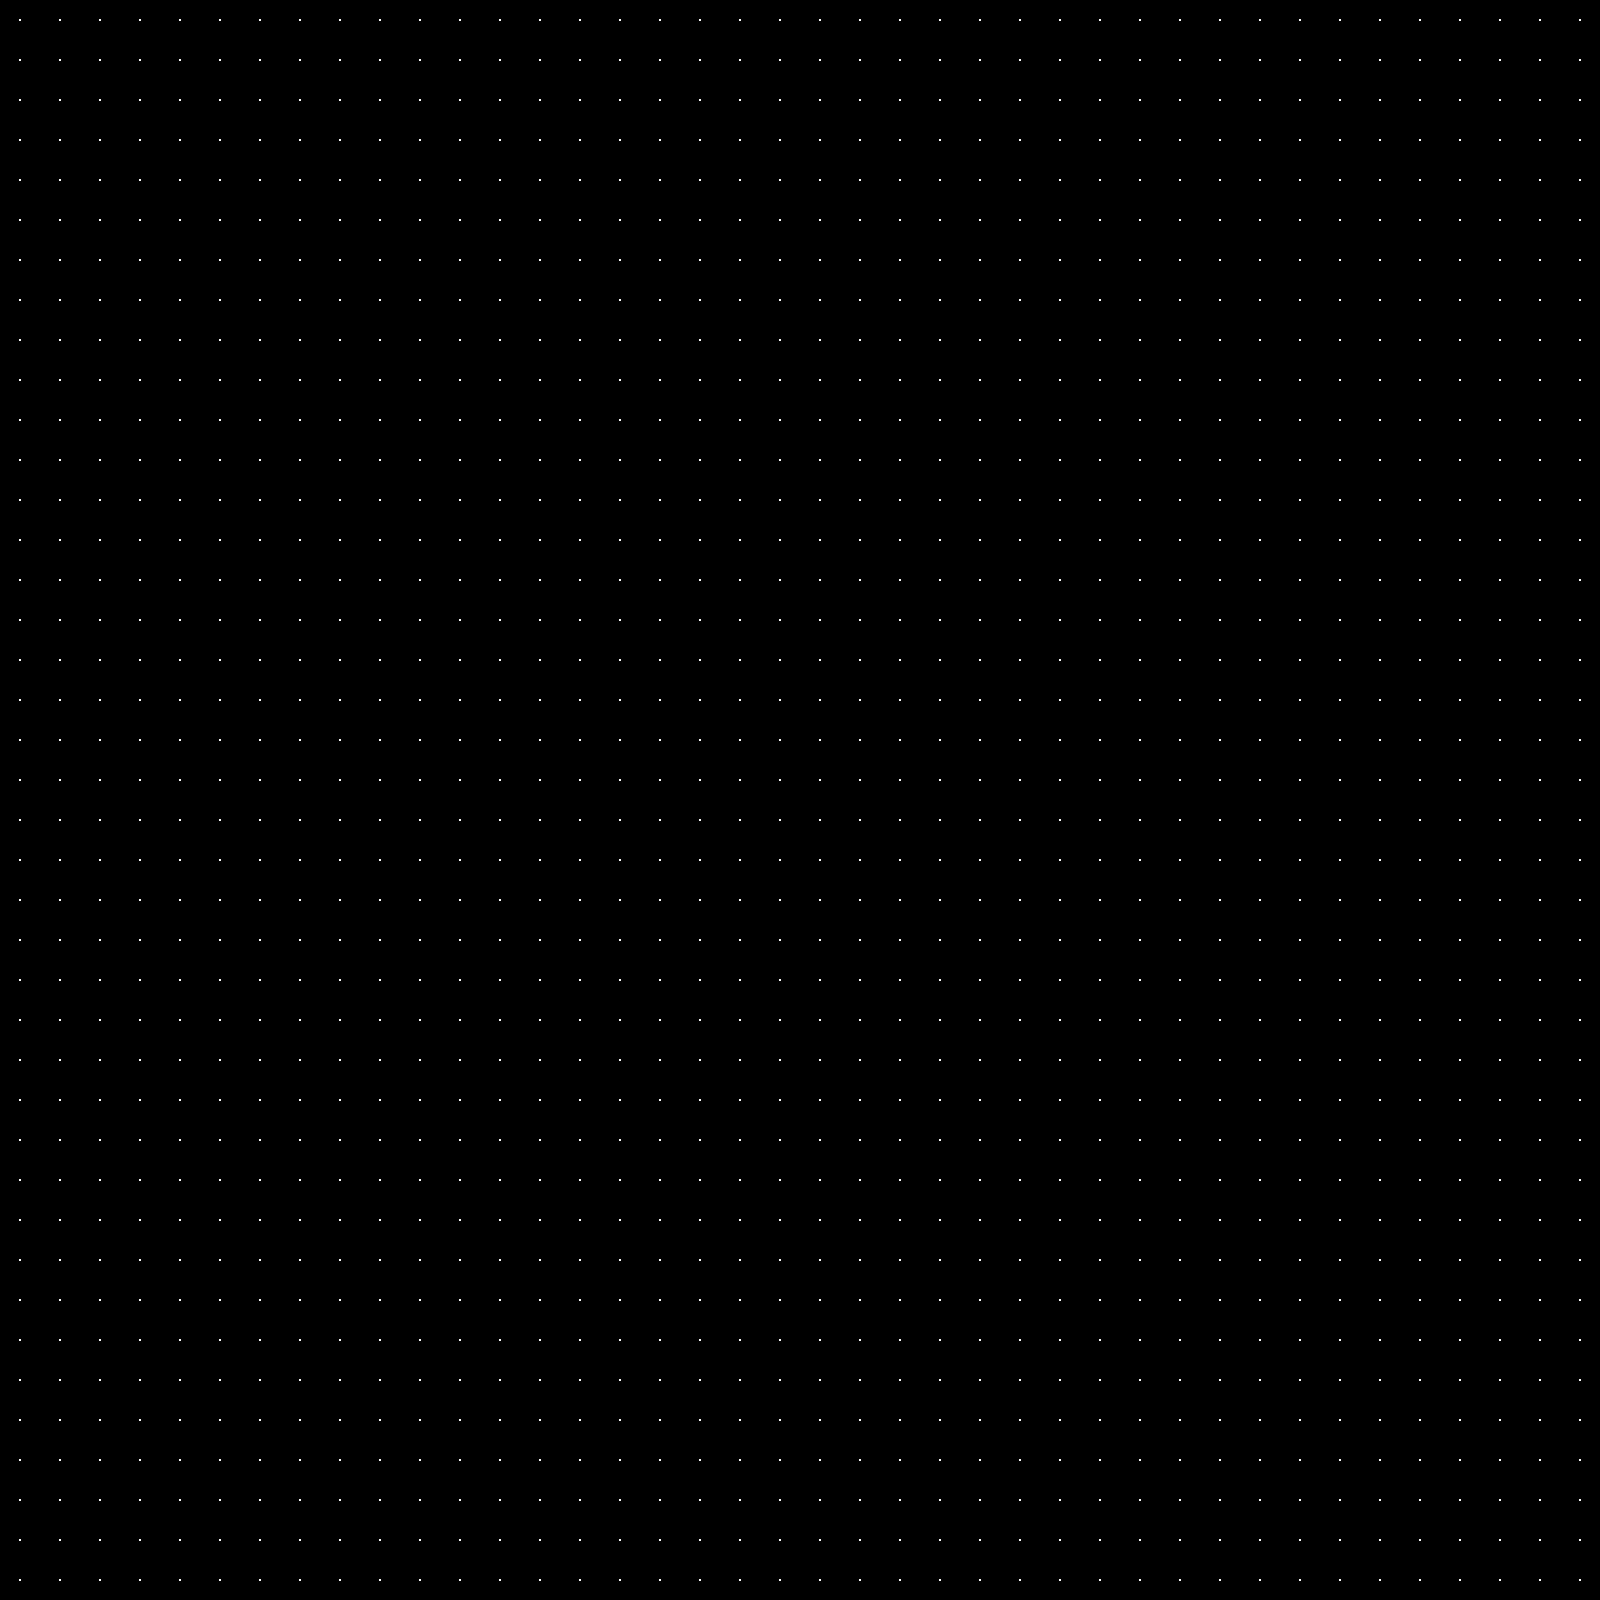
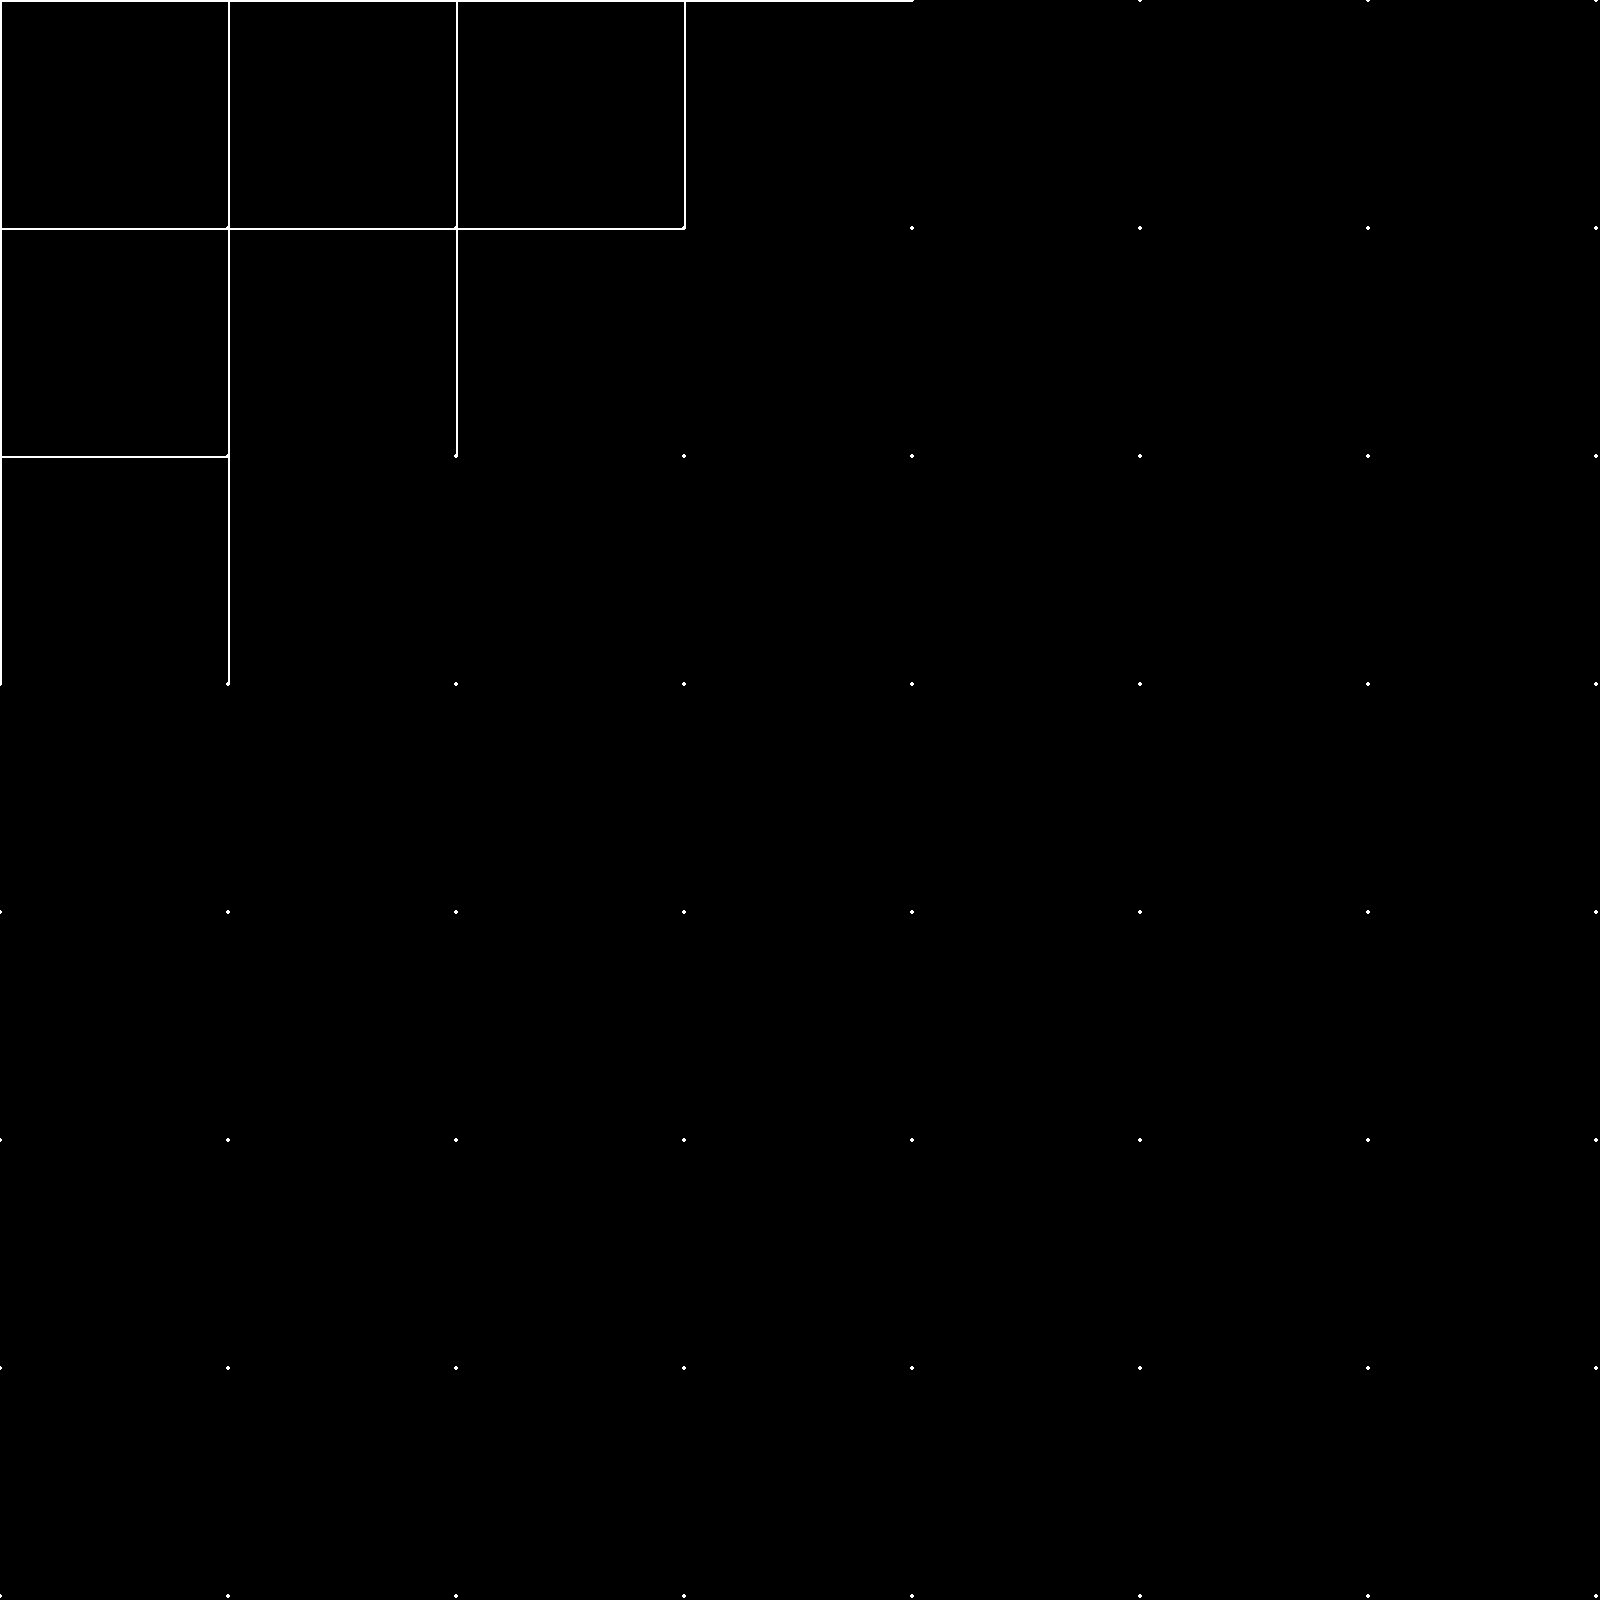
update some pngers

diff --git a/cc_pygame/graph.py b/cc_pygame/graph.py
@@ -1,18 +1,95 @@
+import random
 import pygame
-from shapes.pygame_circle import draw_point
+from shapes.pygame_circle import draw_point, draw_circle
+from shapes.pygame_line import draw_line_cartesian
 
 class Node:
 
     def __init__(self, x: float, y: float) -> None:
         self.x = x
         self.y = y
-        self.adj_nodes = list[Node]
+
+    def draw(self, surface: pygame.SurfaceType, color: pygame.Color,
+             radius: int=2, width: int=0) -> None:
+        draw_circle(surface=surface, color=color,
+                    pos=pygame.Vector2(self.x, self.y), radius= radius,
+                    width=width)
+
+class Edge:
+
+    def __init__(self, node1: Node, node2: Node) -> None:
+        self.node1 = node1
+        self.node2 = node2
+
+    def draw(self, surface: pygame.SurfaceType, color: pygame.Color,
+             width: int=1) -> None:
+        draw_line_cartesian(surface=surface, p0=pygame.Vector2(self.node1.x,
+                                                               self.node1.y),
+                            p1=pygame.Vector2(self.node2.x, self.node2.y),
+                            color=color, width=width)
 
 class Graph:
 
-    def __init__(self, nodes: list[Node], edges: list[list[Node]]) -> None:
+    def __init__(self, nodes: list[Node], edges: list[Edge]) -> None:
         self.nodes = nodes
         self.edges = edges
+
+    def add_node(self, node: Node) -> None:
+        self.nodes.append(node)
+
+    def add_edge(self, edge: Edge) -> None:
+        self.edges.append(edge)
+
+    def draw(self, surface: pygame.SurfaceType, node_color: pygame.Color,
+             edge_color: pygame.Color) -> None:
+        for node in self.nodes:
+            node.draw(surface=surface, color=node_color)
+        for edge in self.edges:
+            edge.draw(surface=surface, color=edge_color, width=2)
+
+class Grid:
+
+    def __init__(self, spacing: int, width: int, height: int) -> None:
+        self.nodes = []
+        self.edges = []
+        for y in range(0, height, spacing):
+            for x in range(0, width, spacing):
+                self.nodes.append(Node(x, y))
+        for node in self.nodes:
+            self._connect_neighbors(node, spacing)
+
+    def _connect_neighbors(self, node: Node, spacing: int) -> None:
+        x, y = node.x, node.y
+        self._add_edge_if_valid(node, x, y - spacing)
+        self._add_edge_if_valid(node, x, y + spacing)
+        self._add_edge_if_valid(node, x + spacing, y)
+        self._add_edge_if_valid(node, x - spacing, y)
+        self._add_edge_if_valid(node, x + spacing, y + spacing)
+        self._add_edge_if_valid(node, x - spacing, y - spacing)
+        self._add_edge_if_valid(node, x + spacing, y - spacing)
+        self._add_edge_if_valid(node, x - spacing, y + spacing)
+
+    def _add_edge_if_valid(self, node: Node, x: int, y: int) -> None:
+        for neighbor in self.nodes:
+            if neighbor.x == x and neighbor.y == y:
+                self.edges.append(Edge(node, neighbor))
+
+    def draw(self, surface: pygame.SurfaceType, node_color: pygame.Color,
+             edge_color: pygame.Color) -> None:
+        for edge in self.edges:
+            edge.draw(surface, edge_color)
+        for node in self.nodes:
+            node.draw(surface, node_color)
+
+def draw_test_graph(surface: pygame.Surface) -> None:
+    node1 = Node(100, 100)
+    node2 = Node(200, 200)
+    edge = Edge(node1, node2)
+    graph = Graph([], [])
+    graph.add_node(node1)
+    graph.add_node(node2)
+    graph.add_edge(edge)
+    graph.draw(surface, "white", "white")
 
 def draw_nodes(surface: pygame.SurfaceType,
                node_radius: int = 10,
@@ -32,4 +109,50 @@ def draw_nodes(surface: pygame.SurfaceType,
             posx += node_radius * 4
         for center in centers:
             draw_point(surface, "white", center)
-        print(centers)
+
+def draw_initial_graph(surface: pygame.SurfaceType, color: pygame.Color,
+                       spacing: int) -> None:
+    Grid(spacing=spacing, width=surface.get_width(),
+         height=surface.get_height()).draw(surface=surface, node_color=color,
+                                           edge_color=color)
+
+def get_random_neighbor(node: Node, edges: list[Edge],
+                        node_spacing: int, visited: list[Node],
+                        max_width: int, max_height: int) -> Node:
+    x, y = node.x, node.y
+    directions = [(0, -1), (0, 1), (-1, 0), (1, 0)]
+    random.shuffle(directions)
+    for dx, dy in directions:
+        neighbor_x, neighbor_y = x + dx * node_spacing, y + dy * node_spacing
+        if 0 <= neighbor_x < max_width and 0 <= neighbor_y < max_height:
+            potential_neighbor = Node(neighbor_x, neighbor_y)
+            if potential_neighbor not in [edge.node1 for edge in edges] \
+                and potential_neighbor not in visited:
+                return potential_neighbor
+    return None
+
+def generate_random_graph(node_spacing: int, width: int, height: int) -> Graph:
+    nodes = []
+    edges = []
+    for y in range(0, height, node_spacing):
+        for x in range(0, width, node_spacing):
+            nodes.append(Node(x, y))
+    connected_nodes = set()
+    connected_nodes.add(nodes[0])
+    while len(connected_nodes) < len(nodes):
+        node = random.choice(list(connected_nodes))
+        neighbor = get_random_neighbor(node, edges, node_spacing,
+                                       list(connected_nodes), width, height)
+        if neighbor:
+            edges.append(Edge(node, neighbor))
+            connected_nodes.add(neighbor)
+        else:
+            break
+    return Graph(nodes, edges)
+
+def gamify_life(surface: pygame.SurfaceType, base_color: pygame.Color,
+                overlay_color: pygame.Color, spacing: int) -> None:
+    draw_initial_graph(surface, base_color, spacing)
+    generate_random_graph(spacing, surface.get_width(),
+                          surface.get_height()).draw(surface, overlay_color,
+                                                     overlay_color)

diff --git a/cc_pygame/pnger_30.py b/cc_pygame/pnger_30.py
@@ -1,0 +1,30 @@
+import sys
+import pygame
+from utils.geometric import get_p1_from_polar
+from shapes.pygame_line import draw_line_polar
+
+def main() -> int:
+    pygame.init()
+    res = (1600, 1600)
+    screen = pygame.display.set_mode(res)
+    screen_color = "black"
+    screen.fill(screen_color)
+    offset = 10
+    p0 = pygame.Vector2(0, 0)
+    line_length = screen.get_width()
+    while line_length > offset:
+        for ang in [0, 90, 180]:
+            line_length -= offset
+            draw_line_polar(screen, p0, line_length, ang, "white", 5)
+            p0.x, p0.y = get_p1_from_polar(p0.x, p0.y, line_length, ang)
+            line_length -= offset
+        line_length -= offset
+        draw_line_polar(screen, p0, line_length, 270, "white", 5)
+        p0.x, p0.y = get_p1_from_polar(p0.x, p0.y, line_length, 270)
+        line_length -= offset
+    pygame.image.save(screen, 'cc_pygame/gen/jpger_30.jpg')
+    pygame.quit()
+    return 0
+
+if __name__ == "__main__":
+    sys.exit(main())

diff --git a/cc_pygame/pnger_29.py b/cc_pygame/pnger_29.py
@@ -1,6 +1,6 @@
 import sys
 import pygame
-from graph import draw_nodes
+from graph import gamify_life
 
 def main() -> int:
     pygame.init()
@@ -8,7 +8,7 @@ def main() -> int:
     screen = pygame.display.set_mode(res)
     screen_color = "black"
     screen.fill(screen_color)
-    draw_nodes(screen)
+    gamify_life(screen, "black", "white", screen.get_width() // 7)
     pygame.image.save(screen, 'cc_pygame/gen/jpger_29.jpg')
     pygame.quit()
     return 0
